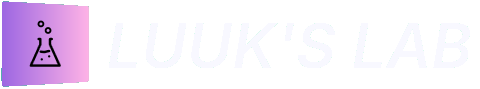
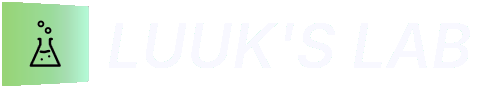
chore: updated images with new theme

Changed region(s): [[0.0, 0.0, 0.1875, 0.9888]]

diff --git a/src/lib/styles/colors.scss b/src/lib/styles/colors.scss
@@ -1,11 +1,11 @@
 // Soft-dark palette tuned for readability and a more professional visual tone.
 $primary: #79c0b0;
-$secondary: #8da6ff;
+$secondary: #8dffb5;
 $accent: #d0b079;
 $success: #83dba1;
 $warning: #e3c87a;
 $error: #e08f8a;
-$info: #7fb8de;
+$info: #7fdec2;
 
 $background: #111418;
 $surface: #181d24;
@@ -22,7 +22,7 @@ $glass-shadow: 0 12px 36px rgba(3, 8, 17, 0.38);
 
 // Background and accent gradients.
 $gradient-background: radial-gradient(1200px 700px at 12% -10%, rgba(121, 192, 176, 0.1), transparent 58%), radial-gradient(900px 500px at 90% 0%, rgba(141, 166, 255, 0.12), transparent 54%), linear-gradient(165deg, #0d1117 0%, #101621 45%, #0e131b 100%);
-$gradient-main: linear-gradient(120deg, #79c0b0 0%, #8da6ff 100%);
+$gradient-main: linear-gradient(120deg, #79c0b0 0%, #63c08d 100%);
 $gradient-accent: linear-gradient(120deg, #d0b079 0%, #83dba1 100%);
 
 $code-bg: rgba(12, 17, 24, 0.78);
